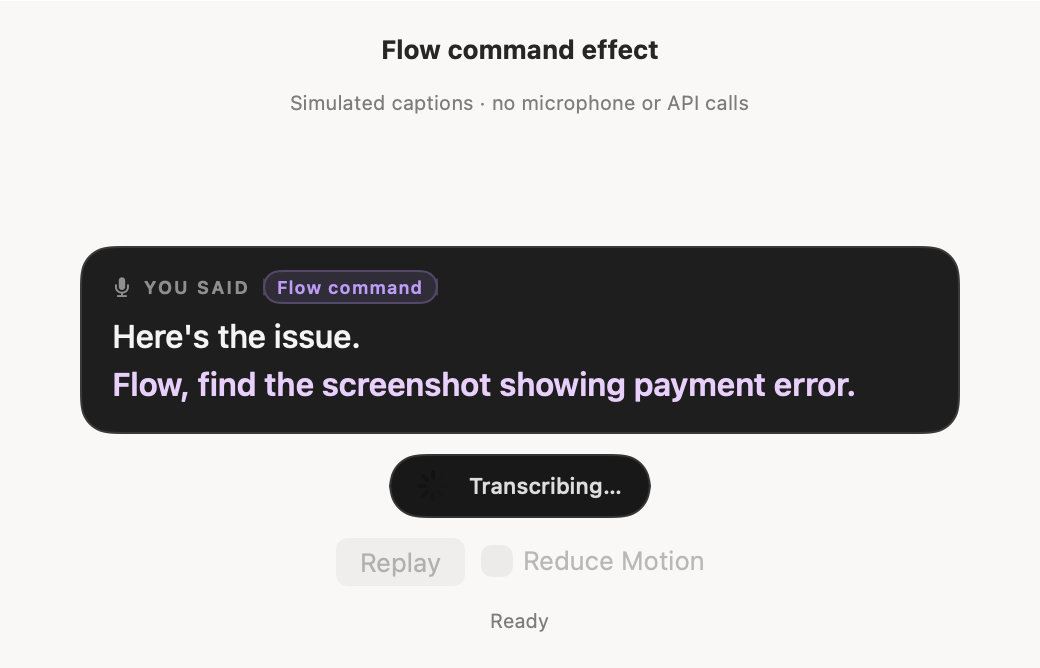
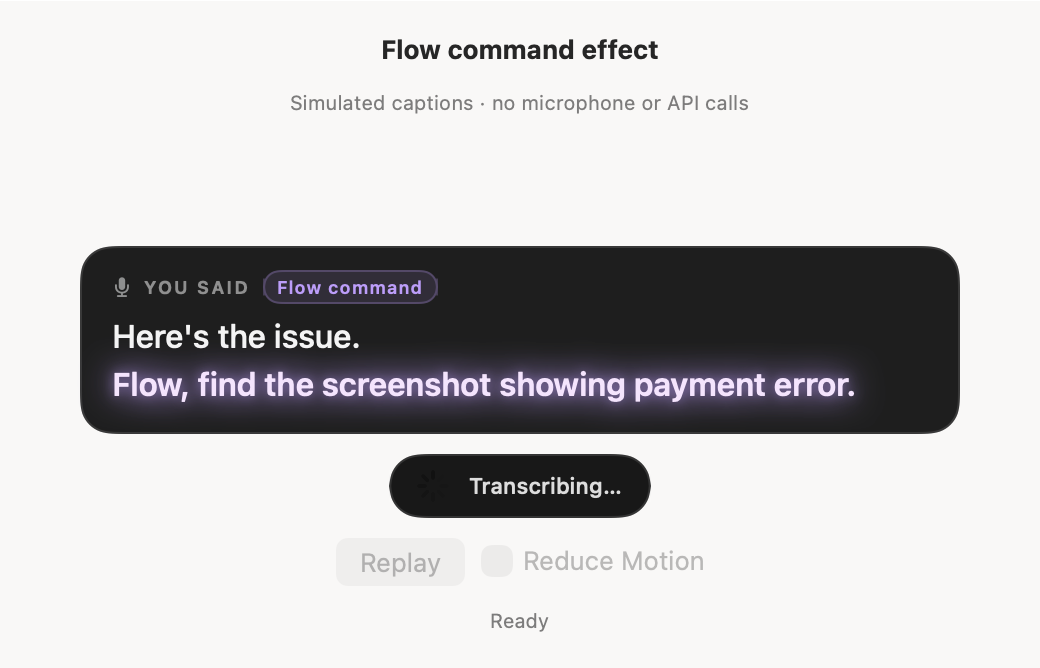
Synchronize stronger command fill and outer glow after the ripple

Changed region(s): [[0.0923, 0.5389, 0.8308, 0.6287]]

diff --git a/Sources/FlowApp/LiquidCommandText.swift b/Sources/FlowApp/LiquidCommandText.swift
@@ -45,10 +45,10 @@ struct LiquidCommandText: View {
                         let settling = (elapsed - Self.rippleDuration) / Self.settleDuration
                         let settleFlash = animating && !reduceMotion && settling > 0 && settling < 1
                             ? sin(settling * .pi) : 0
-                        // Brighten the glyph fill itself: the finish has no halo
-                        // outside the cached letters, and all words flash together.
-                        let flashInk = Color(red: 0.76 + 0.20 * settleFlash,
-                                             green: 0.61 + 0.23 * settleFlash, blue: 1)
+                        // One envelope drives both the luminous fill and outer halo,
+                        // so the whole command blooms and settles in sync.
+                        let flashInk = Color(red: 0.76 + 0.22 * settleFlash,
+                                             green: 0.61 + 0.29 * settleFlash, blue: 1)
                         Canvas { context, size in
                             var image = context.resolve(Image(decorative: raster, scale: displayScale))
                             let bounds = CGRect(origin: .zero, size: size)
@@ -80,6 +80,8 @@ struct LiquidCommandText: View {
                                 }
                             }
                         }
+                        .shadow(color: FlowCommandBadge.ink.opacity(0.85 * settleFlash), radius: 9 * settleFlash)
+                        .shadow(color: FlowCommandBadge.ink.opacity(0.60 * settleFlash), radius: 3 * settleFlash)
                     }
                     .allowsHitTesting(false).accessibilityHidden(true)
                 }

diff --git a/scripts/preview-command-ripple.swift b/scripts/preview-command-ripple.swift
@@ -56,7 +56,7 @@ final class RipplePreview: ObservableObject {
             try await Task.sleep(for: .milliseconds(250)); savePNG("command-ripple-active.png")
             try await Task.sleep(for: .seconds(LiquidCommandText.rippleDuration + LiquidCommandText.settleDuration / 2 - 0.25))
             savePNG("command-ripple-settling.png")
-            checks["settling_text_flash_preview_rendered"] = FileManager.default.fileExists(atPath: output.appendingPathComponent("command-ripple-settling.png").path)
+            checks["settling_synced_glow_preview_rendered"] = FileManager.default.fileExists(atPath: output.appendingPathComponent("command-ripple-settling.png").path)
             try await Task.sleep(for: .seconds(LiquidCommandText.settleDuration / 2 + 0.1)); savePNG("command-ripple-settled.png")
             let plan = try JSONDecoder().decode(AttachmentPlan.self, from: Data(#"{"message":"Here's the issue.","command":"Flow, find the screenshot showing payment error.","request":{"source":"file_search","kind":"image","query":"showing payment error"}}"#.utf8))
             attachments.receive(plan)

diff --git a/docs/command-ripple.md b/docs/command-ripple.md
@@ -12,9 +12,11 @@ During recording the command has a static purple fill. When recording ends, a
 single 700 ms highlight and one smooth crest sweep from left to right,
 with up to 2 points of letter displacement. A Gaussian crest follows the highlight
 without oscillation or trailing ripples, with a gentle fade at either end.
-Once the crest has settled, all command letters flash a bright luminous purple
-once over 400 ms, then fade back to their normal purple. This is a change in the
-glyph fill, using the cached glyph alpha mask, with no outer shadow or halo.
+Once the crest has settled, all command letters flash a brighter luminous purple
+with a strong outer halo once over 400 ms, then fade back to their normal purple.
+A single pulse envelope drives the glyph fill and both halo layers, so their
+brightness rises, peaks and fades together. The halos appear only during this
+finish; there is no lingering shadow.
 The recipient message stays white. The letters stay still during this finish.
 The full timing is shared by rendering and animation cleanup.
 There is no replay on each partial recognition update. The glyph alpha image is
@@ -51,13 +53,13 @@ existing signed app bundle and permissions are preserved; this is a separate
 review helper using the updated app components.
 
 The preview exports [a GIF](../review/command-ripple.gif), stills for listening,
-mid-ripple, finishing text flash, settled, ordinary mentions, reduced motion
+mid-ripple, synchronized finishing glow, settled, ordinary mentions, reduced motion
 and long commands, and
 [a scoped report](../review/command-ripple-verification.json). Its frame interval
 is a capture target, not a measured production frame-rate guarantee.
 
 33 Swift tests passed, including new cue-boundary, quotation, negation, Unicode
-and full-context guards. Eight native preview checks passed after the glyph-flash adjustment. The exported stills
+and full-context guards. Eight native preview checks passed after the synchronized-glow adjustment. The exported stills
 were visually reviewed: command motion/glow, unchanged recipient text, no
 microphone waveform during processing, readable long commands and static reduced
 motion. A pixel comparison between active/settled fixtures also found no changes

diff --git a/docs/attachment-resume.md b/docs/attachment-resume.md
@@ -287,3 +287,17 @@ The build and eight native preview checks passed. The flash and settled frames
 were visually reviewed. A pixel comparison found 8,710 changed command pixels,
 zero changed background pixels in the command region and zero changed recipient
 text pixels. The updated Replay preview remains open.
+
+## Synchronized inner and outer finish (October 18)
+
+The user asked to strengthen the inner glow and restore the outer glow, with
+both synchronized after the ripple settles. The fill now flashes brighter,
+with a broad purple halo and a tighter glow around the letters. One shared
+400 ms pulse drives fill brightness and both halo layers' opacity and radius,
+so they rise, peak and fade together. The 700 ms single ripple is unchanged.
+Reduce Motion disables the entire finish.
+The build and eight native preview checks passed. The finishing frame was
+visually reviewed, and pixel comparison confirmed both brighter glyphs and the
+restored halo. White recipient-glyph pixels stayed unchanged within a two-level
+RGB tolerance; the halo intentionally changes surrounding background pixels.
+The refreshed Replay preview remains open.
